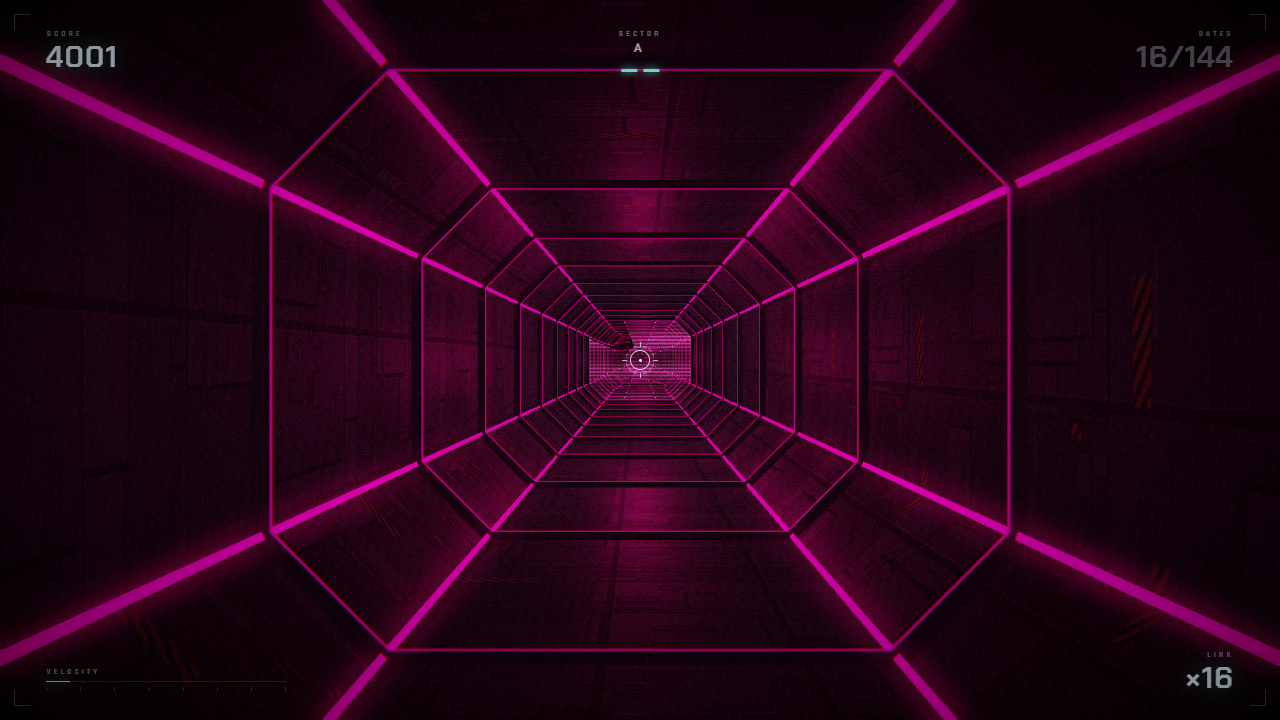
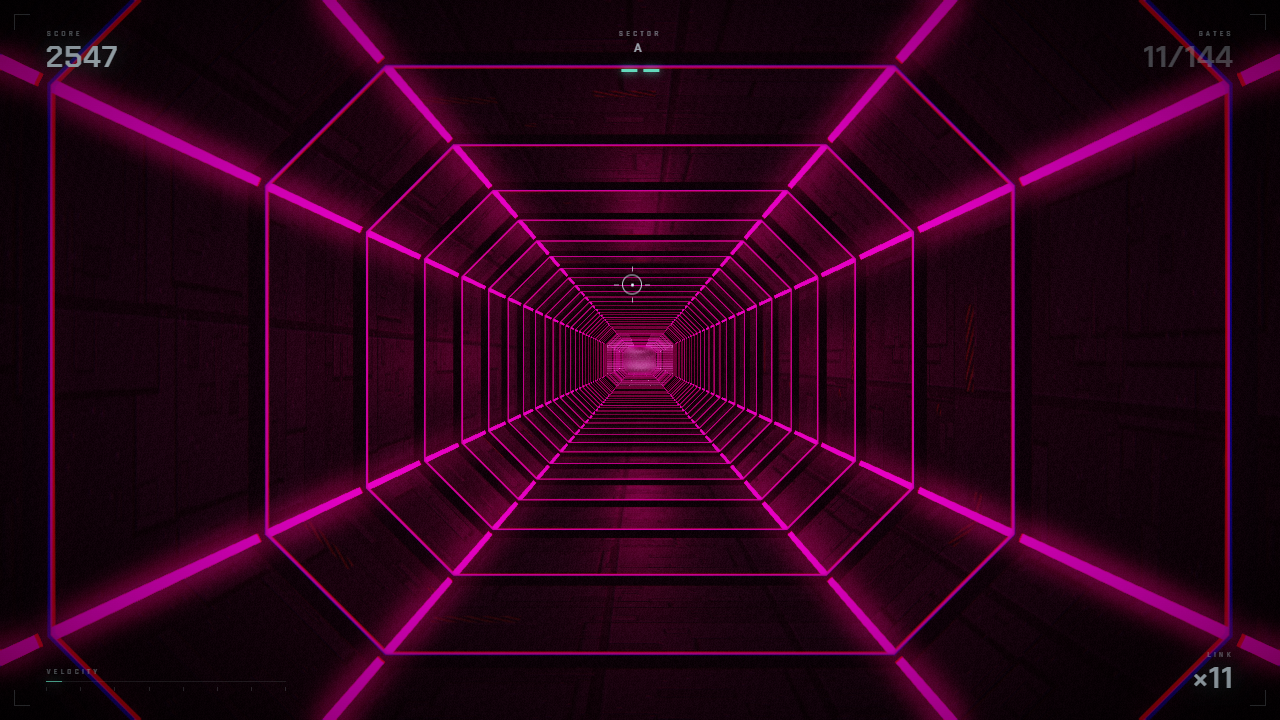
feat(art1): rib density follows the quality tier
TUNNEL.ring was a constant 3.0. It is now RING = QUALITY.ring: 1.5 on high, 2.4
on mobile, 3.0 on low. The corridor doubles its cross-section rings on desktop
while the phone keeps the cheap version.

This is the groundwork for the art pass, not the whole of it. Ribs are the
cheapest density win because they are already generated procedurally — but two
rings instead of one also means twice the rim glow, and at 1.5 the rings start to
read as stripes rather than structure. The rim gain needs to come down as density
goes up, and the real detail (panel recesses, bolts, corner gussets) is still to
do.

diff --git a/js/main.js b/js/main.js
@@ -1,14 +1,14 @@
 import * as THREE from 'three';
-import { buildTextures } from './textures.js?v=2026-11-10t';
-import { Tunnel, TUNNEL } from './tunnel.js?v=2026-11-10t';
-import { buildPath } from './path.js?v=2026-11-10t';
-import { Gates, laneOf, lanePoint } from './gates.js?v=2026-11-10t';
-import { PostFX } from './post.js?v=2026-11-10t';
-import { AudioEngine } from './audio.js?v=2026-11-10t';
-import { chartFor, DIFFICULTY, SONG_BEATS } from './chart.js?v=2026-11-10t';
-import { VOL, VOLUMES } from './volumes.js?v=2026-11-10t';
-import { Recorder } from './recorder.js?v=2026-11-10t';
-import { QUALITY, TIER } from './quality.js?v=2026-11-10t';
+import { buildTextures } from './textures.js?v=2026-11-10u';
+import { Tunnel, TUNNEL } from './tunnel.js?v=2026-11-10u';
+import { buildPath } from './path.js?v=2026-11-10u';
+import { Gates, laneOf, lanePoint } from './gates.js?v=2026-11-10u';
+import { PostFX } from './post.js?v=2026-11-10u';
+import { AudioEngine } from './audio.js?v=2026-11-10u';
+import { chartFor, DIFFICULTY, SONG_BEATS } from './chart.js?v=2026-11-10u';
+import { VOL, VOLUMES } from './volumes.js?v=2026-11-10u';
+import { Recorder } from './recorder.js?v=2026-11-10u';
+import { QUALITY, TIER } from './quality.js?v=2026-11-10u';
 
 const TOUCH = window.matchMedia('(pointer: coarse)').matches;
 

diff --git a/js/tunnel.js b/js/tunnel.js
@@ -1,4 +1,5 @@
 import * as THREE from 'three';
+import { QUALITY } from './quality.js?v=2026-11-10u';
 import { VOL } from './volumes.js';
 
 /* ------------------------------------------------------------------ *
@@ -15,6 +16,7 @@ export const TUNNEL = {
   ring: 3.0,
 };
 
+const RING = QUALITY.ring;   // rib spacing, set by the quality tier
 const CHUNK = 210;
 const KEEP_BEHIND = 90;
 const KEEP_AHEAD = 430;
@@ -136,7 +138,7 @@ export class Tunnel {
     const totalPerim = perim[edges];
 
     const rings = [];
-    for (let s = s0; s < s1; s += TUNNEL.ring) rings.push(s);
+    for (let s = s0; s < s1; s += RING) rings.push(s);
     rings.push(s1);
 
     const ghost = VOL.topology === 'orbit';   // light frame only, no hull
@@ -335,7 +337,7 @@ export class Tunnel {
 
     const end = Math.min(this.path.length, 380);
     const rings = [];
-    for (let s = 1.0; s < end; s += TUNNEL.ring) rings.push(s);
+    for (let s = 1.0; s < end; s += RING) rings.push(s);
 
     for (const s of rings) {
       this.path.sample(s, A);

diff --git a/js/quality.js b/js/quality.js
@@ -24,9 +24,9 @@ const tier = (forced === 'low' || forced === 'mobile' || forced === 'high')
   : (coarse || narrow ? 'mobile' : 'high');
 
 const TABLE = {
-  high:   { antialias: true,  pr: 1.6,  samples: 4, taps: 14, dof: true },
-  mobile: { antialias: false, pr: 1.25, samples: 0, taps: 8,  dof: true },
-  low:    { antialias: false, pr: 1.0,  samples: 0, taps: 6,  dof: false },
+  high:   { antialias: true,  pr: 1.6,  samples: 4, taps: 14, dof: true,  ring: 1.5 },
+  mobile: { antialias: false, pr: 1.25, samples: 0, taps: 8,  dof: true,  ring: 2.4 },
+  low:    { antialias: false, pr: 1.0,  samples: 0, taps: 6,  dof: false, ring: 3.0 },
 };
 
 export const TIER = tier;

diff --git a/js/gates.js b/js/gates.js
@@ -1,6 +1,6 @@
 import * as THREE from 'three';
-import { TUNNEL } from './tunnel.js?v=2026-11-10t';
-import { VOL } from './volumes.js?v=2026-11-10t';
+import { TUNNEL } from './tunnel.js?v=2026-11-10u';
+import { VOL } from './volumes.js?v=2026-11-10u';
 
 /* ------------------------------------------------------------------ *
  *  A bulkhead is not a sheet with a hole in it — it is a set of glass

diff --git a/js/chart.js b/js/chart.js
@@ -9,7 +9,7 @@
  *      0 E   1 NE   2 N   3 NW   4 W   5 SW   6 S   7 SE
  * ------------------------------------------------------------------ */
 
-import { VOL } from './volumes.js?v=2026-11-10t';
+import { VOL } from './volumes.js?v=2026-11-10u';
 
 export const SONG_BEATS = VOL.beats;
 export const BPM = VOL.bpm;

diff --git a/js/audio.js b/js/audio.js
@@ -6,7 +6,7 @@
  *  from the audio clock so the visuals lock to the beat.
  * ------------------------------------------------------------------ */
 
-import { VOL } from './volumes.js?v=2026-11-10t';
+import { VOL } from './volumes.js?v=2026-11-10u';
 
 const MOOD = VOL.music;
 

diff --git a/js/post.js b/js/post.js
@@ -1,4 +1,4 @@
-import { QUALITY } from './quality.js?v=2026-11-10t';
+import { QUALITY } from './quality.js?v=2026-11-10u';
 import * as THREE from 'three';
 
 /* ------------------------------------------------------------------ *
